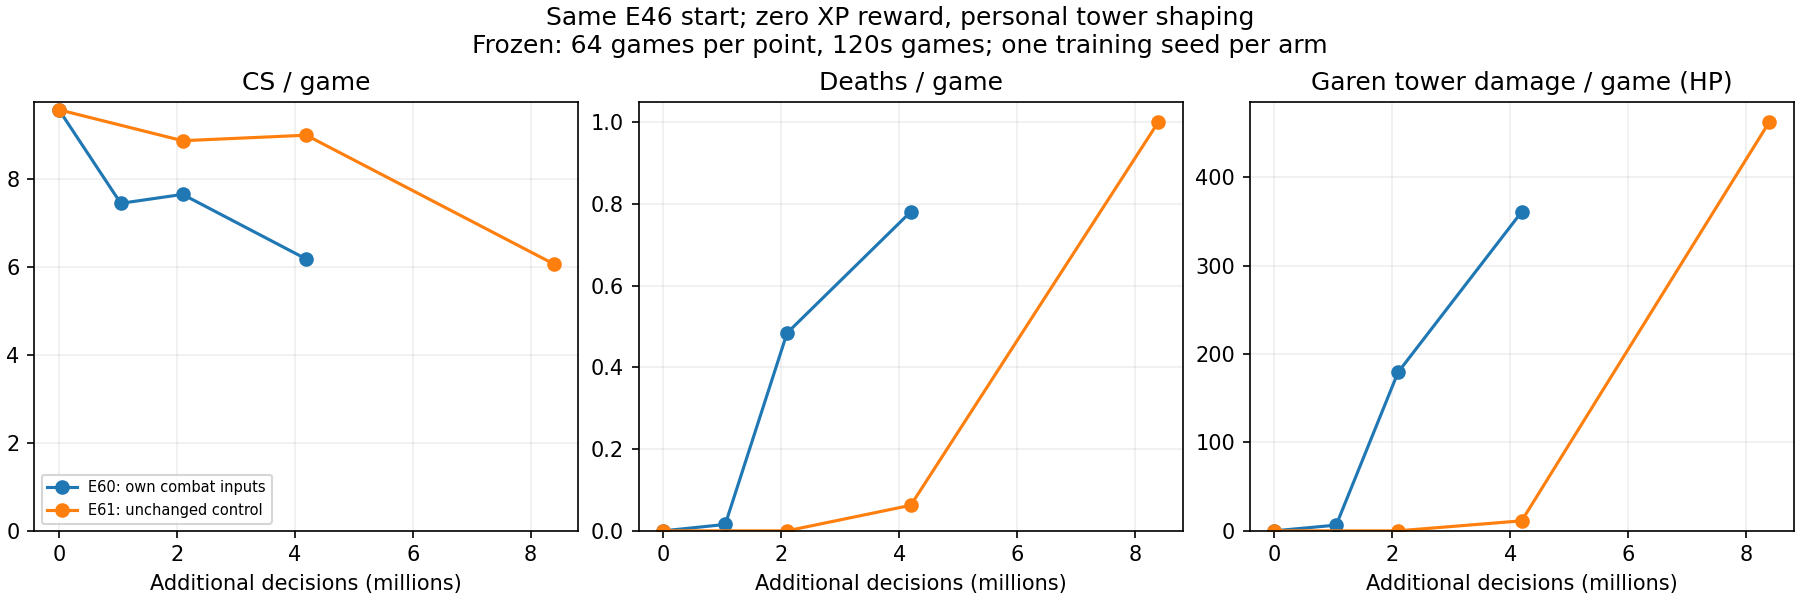
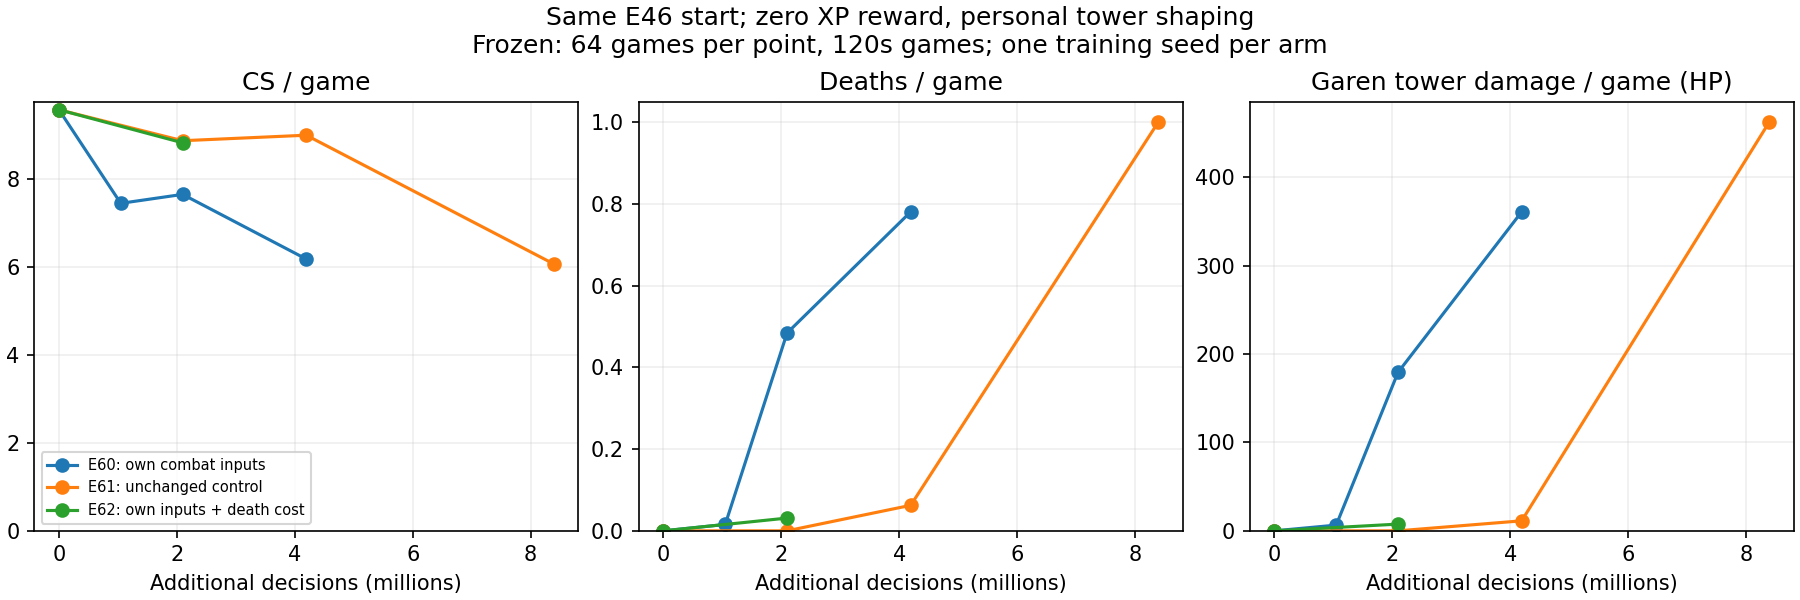
Record early death-cost result without claiming farming improvement

diff --git a/STATUS.md b/STATUS.md
@@ -1,4 +1,4 @@
-**OVERNIGHT ACTIVE through 2026-10-01 15:37 UTC:** E61 longcontrol completed Slurm1828 COMPLETED/0:0 in36m10s,512updates8.389M; final frozen64game120s CS6.0625/deaths1/towerHP462.1173/reward12.75195 versusinitial9.5625/0/0/6.32926. u128 exactly reproducesE57; u2568.9844CS/.0625deaths/11.33towerHP. E60own-input256 also learned risky tower damage (6.1719CS/.78125deaths/361towerHP). Both obtain higher reward while farming/survival worsen: concrete objective mismatch, not proof all CS limitations explained. E61finalcheckpoint finite/latest identical,512metrics/nonfinite0, sourceSHA verified, death0 manifest. Watcher1828 stopped after active review; inactive/registry clean. E62 death300gold+owninputs RUNNING Slurm1829;15 GPU canaries and180s startup watch passed; fromE46/freshAdam/LR1e-4/4epochs,HP100/personal tower900/XP0 unchanged,512updates. Bridge lanerl-event-1829.service active/result updating, expiry2026-10-01T10:16:21.872531+00:00. ETA~35–40min from08:10UTC start. Compare frozen CS/deaths/towerHP and common rescored reward; independentseed replication if promising. Plot docs/figures/afk_debug_comparison.png. E46 best preserved; no demonstrated fix yet. E62 initial frozen evaluation exactly matches E60; manifestdeath300/v4 verified. E63 reward-only v3 control Slurm1830 queued behind1829; startup-watch session58378 active, must pass and arm bridge when started.512updates/~36min once running.
+**OVERNIGHT ACTIVE through 2026-10-01 15:37 UTC:** E61 longcontrol completed Slurm1828 COMPLETED/0:0 in36m10s,512updates8.389M; final frozen64game120s CS6.0625/deaths1/towerHP462.1173/reward12.75195 versusinitial9.5625/0/0/6.32926. u128 exactly reproducesE57; u2568.9844CS/.0625deaths/11.33towerHP. E60own-input256 also learned risky tower damage (6.1719CS/.78125deaths/361towerHP). Both obtain higher reward while farming/survival worsen: concrete objective mismatch, not proof all CS limitations explained. E61finalcheckpoint finite/latest identical,512metrics/nonfinite0, sourceSHA verified, death0 manifest. Watcher1828 stopped after active review; inactive/registry clean. E62 death300gold+owninputs RUNNING Slurm1829;15 GPU canaries and180s startup watch passed; fromE46/freshAdam/LR1e-4/4epochs,HP100/personal tower900/XP0 unchanged,512updates. Bridge lanerl-event-1829.service active/result updating, expiry2026-10-01T10:16:21.872531+00:00. ETA~35–40min from08:10UTC start. Compare frozen CS/deaths/towerHP and common rescored reward; independentseed replication if promising. Plot docs/figures/afk_debug_comparison.png. E46 best preserved; no demonstrated fix yet. E62 initial frozen evaluation exactly matches E60; manifestdeath300/v4 verified. E63 reward-only v3 control Slurm1830 queued behind1829; startup-watch session58378 active, must pass and arm bridge when started.512updates/~36min once running. E62 frozen1288.8125CS/.03125deaths/7.614towerHP; improves over E60 samepoint but beloworiginal, continue budget.
 
 **E56/E57 COMPLETE — oneepoch candidate rejected; NOTHING RUNNING for this comparison:** E57 Slurm1823 COMPLETED/0:0,14m22s;128updates/2.097M. Frozen64game120s CS9.5625→8.84375→8.859375, exactly reproduces E51 aggregate checkpoints. E56 oneepoch9.5625→5.53125→3.640625. Both0deaths/0personal towerHP. Same initSHA verified,manifest epochs1/4;128metrics each/nonfinite0,finalstep/finiteparams/latestidentical verified. Median steady update1.8504s vs3.2502s =1.756x faster oneepoch, but worse farming; neither improves starting checkpoint. Do not extend E56 or claim diagnostic button likelihood predicts gameplay. Last16 training criticEV−.729 vs−.062 (different onpolicy data), postKL.0370 vs.0214; oneepoch reduces BOTH actor and critic updates, so cannot isolate actor interference. Rootcause unresolved; next investigation should distinguish critic-credit quality/causal initiating actions from actor-update size, rather than repeat blind epoch sweep. No next job submitted. E57 watcher delivered, inactive/registry absent. Results LEARN-AFK-11 final; committed source/settings/evidence.
 

diff --git a/docs/JAX_FIDELITY_LEDGER.md b/docs/JAX_FIDELITY_LEDGER.md
@@ -637,3 +637,5 @@ History lives in `docs/EXPERIMENTS.md` and `docs/JAX_FIDELITY_LEDGER.md`.
 | LEARN-AFK-15 matched control planned | E63 uses originalv3inputs with same300gold death cost asE62, E46start/freshAdam/seed0/LR1e-4/4epochs/512updates. | Isolates reward-only change againstE61 and input change againstE62; avoids crediting new inputs for a reward-only improvement. Same predeclared farming/survival gate; independentseed validation required. Prepared, not submitted. |
 
 | LEARN-AFK-17 literature / deferred | Current PPO.standard uses gamma.99 at10Hz (10s discount horizon), lambda.95. OpenAI Five paper section4.5/figure6 finds longer horizons improve a skilled agent; AppendixC uses lambda.95 with horizons60–840s, including180s baseline. Source https://cdn.openai.com/dota-2.pdf pp13–14,30. | Domain precedent for testing a longer discount horizon if corrected rewards still fail; not evidence our120s AFK task needs full-game settings. Keep lambda.95 initially to isolate gamma rather than calling lambda.99 a published default. Not implemented/submitted; prioritize E62/E63 reward comparison first. |
+
+| LEARN-AFK-15 E62u128 | Frozen64games E628.8125CS/.03125deaths/7.61418towerHP/reward5.94133. Matched E60u1287.640625/.484375/179.35231; original9.5625/0/0. | Death cost suppresses risky tower outcome and recovers some CS versus own-input no-cost arm; does not yet improve original farming. Continues to256/512; E63 reward-only control queued. |
